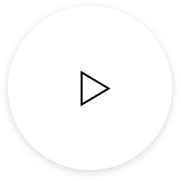
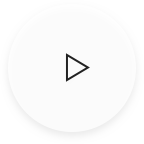
new arrows

Changed region(s): [[0.4444, 0.3611, 0.6389, 0.6111]]

diff --git a/new-site/index.html b/new-site/index.html
@@ -131,6 +131,7 @@
         <div class="section">
             <div class="trips">
                 <div class="description">
+                    <img src="images/trips-logo.png" alt="trips logo" class="logo">
                     <h2>TAQ Trips</h2>
                     <p>Tiny Atlas Trips bring our stories to life in real time on incredible excursions across the globe. Produced in collaboration with adventure sports company, Earth Missions and analog creativity specialists Allswell, Tiny Atlas Trips
                         are created for the public as well as influencers and can be customized for brands.</p>
@@ -161,10 +162,10 @@
 
         <div class="section">
           <div class="section-shop">
-            <img src="images/solas-image-1.jpg" alt="">
+            <img src="images/solas-image-1.jpg" alt="Solas Bag Image">
             <div class="shop-info">
-              <span>SHOP TINY ATLAS</span>
-              <h3>Solas Camera Bag</h3>
+              <img src="images/solas-logo.png" alt="Solas Logo" class="logo">
+              <h3>A casual camera bag for  photographers</h3>
               <p>A lightweight, versatile and durable camera bag Tiny Atlas Quarterly + Alite Designs made just for you.</p>
               <a href="https://tiny-atlas-solas-a-casual-camera-bag-for-photograp.backerkit.com/hosted_preorders"><button>Preorder</button></a>
             </div>

diff --git a/new-site/css/homepage.css b/new-site/css/homepage.css
@@ -165,6 +165,10 @@ text-transform: uppercase;
   font-family: 'calendas-plus', serif;
 }
 
+.section .logo {
+  max-width: 100px;
+  margin: 10px auto 30px;
+}
 
 /* ====== Trips ====== */
 
@@ -229,9 +233,15 @@ text-transform: uppercase;
   display: inline-block;
   max-width: 50%;
   float: right;
-  padding: 70px 20px 50px;
+  padding: 70px 61px 50px;
   box-sizing: border-box;
   text-align: center;
+}
+.section-shop h3 {
+  font-family: 'GT-Haptik-Light', sans-serif;
+  text-transform: uppercase;
+  font-size: 1.6em;
+  -webkit-font-smoothing: subpixel-antialiased;
 }
 
 .section-shop .shop-info span{
@@ -256,7 +266,7 @@ text-transform: uppercase;
 
 .section-issues{padding: 0 20px;max-width: 960px;margin: 0 auto 40px;}
 .section-issues .issue{
-  max-width: 30.99%;
+  max-width: 30.9%;
   display: inline-block;
   padding: 20px 1%;
 }

diff --git a/new-site/css/features.css b/new-site/css/features.css
@@ -60,7 +60,7 @@ img {
 	position: fixed;
 	text-align: center;
 	left: 0px;
-	top: calc(50% - 172px);
+	top: calc(50% - 140px);
 	z-index: 2000;
 	-webkit-user-select: none;
 	-moz-user-select: none;
@@ -88,9 +88,9 @@ img {
 }
 
 .pg-nav span.pg-prev {
-	width: 8%;
+	width: 5%;
 	height: 160px;
-	margin: 8.333333333333% 0px 0px 0.5%;
+	margin: 6% 0px 0px 0.5%;
 	float:left;
 	background: transparent url(../images/arrow_prev.png) no-repeat;
 	-webkit-background-size: contain;
@@ -100,7 +100,7 @@ img {
 	background-size: contain;
 }
 .pg-nav span.pg-next {
-	width: 11%;
+	width: 5%;
 	height: 160px;
 	margin: 6% 0.5% 0 0;
 	float:right;
@@ -120,7 +120,7 @@ img {
 .pg-nav span.pg-prev:hover,
 .pg-nav span.pg-next:hover,
 .pg-nav span.pg-dot:hover{
-	opacity: 0.8;
+	opacity: 0.9;
 }
 
 /*----------- PAGE CLASSES--------------*/
